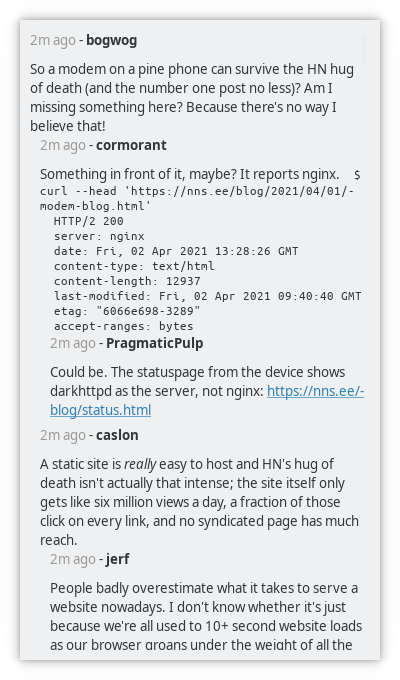
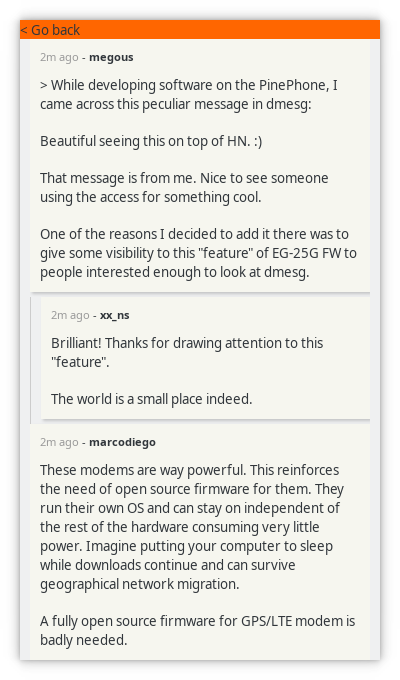
implement styling

diff --git a/src/hn/css/style.css b/src/hn/css/style.css
@@ -1,0 +1,31 @@
+.news-item {
+	padding: 5px;
+	margin-bottom: 2px;
+	background-color: #f6f6ef;
+	min-height: 60px
+}
+.comment-item {
+	padding: 10px;
+	/*
+	border-left: 4px solid #f00;
+	margin-left: -2px;
+	*/
+	margin-bottom: 5px;
+	background-color: #f6f6ef;
+	box-shadow: 2px 2px 2px 0px rgba(0, 0, 0, 0.18);
+}
+.comment-replies {
+	border-left: 1px solid #ccc;
+}
+
+.comment-item-dead {
+	color: #999;
+}
+
+.thread-comments {
+	padding-left: 10px;
+	padding-right: 10px;
+}
+.thread-back {
+	background-color: #ff6600;
+}

diff --git a/src/hn/hn.py b/src/hn/hn.py
@@ -1,5 +1,6 @@
 #!/usr/bin/env python3.7
 import queue
+from pathlib import Path
 
 import gi
 
@@ -12,12 +13,14 @@ from pango import html_to_pango
 from api import top_stories, get_id
 q = queue.Queue()
 
+STYLE_FILE = Path(__file__).parent / 'css' / 'style.css'
+
 class AppWindow(Gtk.ApplicationWindow):
     def __init__(self, *args, **kwargs):
         super().__init__(*args, **kwargs)
-        # self.connect("destroy", Gtk.main_quit)
+        self.connect("destroy", Gtk.main_quit)
+        self.setup_styles()
         self.set_default_size(360, 640)
-        self.set_border_width(10)
 
         self.stack = Gtk.Stack()
         self.stack.set_vexpand(True)
@@ -27,15 +30,22 @@ class AppWindow(Gtk.ApplicationWindow):
 
         self.ct = CommentThread()
         self.news_list = NewsList()
-        #label.connect('clicked', self.set_thread)
 
         self.stack.add(self.news_list)
         self.stack.add(self.ct)
-        #self.stack.set_visible_child(self.news_list)
 
         self.add(self.stack)
         self.show_all()
     
+    def setup_styles(self):
+        css_provider = Gtk.CssProvider()
+        context = Gtk.StyleContext()
+        screen = Gdk.Screen.get_default()
+
+        css_provider.load_from_path(str(STYLE_FILE))
+        context.add_provider_for_screen(screen, css_provider,
+                                        Gtk.STYLE_PROVIDER_PRIORITY_APPLICATION)
+
     def set_thread(self, thread_id):
         self.stack.set_visible_child(self.ct)
         self.ct.set_comments(thread_id)
@@ -53,7 +63,7 @@ class NewsList(Gtk.Grid):
         scrolled_window.set_vexpand(True)
 
         self.add(scrolled_window)
-        self.vbox = Gtk.VBox(spacing=6)
+        self.vbox = Gtk.VBox()
         self.vbox.set_homogeneous = False
         scrolled_window.add(self.vbox)
         self.show_all()
@@ -71,12 +81,15 @@ class CommentThread(Gtk.Grid):
         super().__init__(*args, **kwds)
 
         scrolled_window = Gtk.ScrolledWindow()
+        scrolled_window.get_style_context().add_class('thread-comments')
         scrolled_window.set_policy(Gtk.PolicyType.NEVER, Gtk.PolicyType.AUTOMATIC)
         scrolled_window.set_hexpand(True)
 
         label = Gtk.Label(label='< Go back')
         label.set_hexpand(True)
         label.set_xalign(0)
+        label.get_style_context().add_class('thread-back')
+
         back_event = Gtk.EventBox()
         back_event.add(label)
         back_event.connect('button-release-event', self.back_click)
@@ -84,7 +97,7 @@ class CommentThread(Gtk.Grid):
         self.attach(back_event, 0, 0, 1, 1)
         self.attach(scrolled_window, 0, 1, 1, 10)
 
-        self.vbox = Gtk.VBox(spacing=6)
+        self.vbox = Gtk.VBox()
         self.vbox.set_homogeneous = False
         scrolled_window.add(self.vbox)
         self.show_all()
@@ -108,6 +121,7 @@ class CommentThread(Gtk.Grid):
 class NewsItem(Gtk.Grid):
     def __init__(self, _item_id, *args, **kwds):
         super().__init__(*args, **kwds)
+        self.get_style_context().add_class('news-item')
 
         self.set_column_homogeneous(True)
         self.article_url = None
@@ -161,28 +175,34 @@ class NewsItem(Gtk.Grid):
             url = data['url'].split('/')[2]
         else:
             url = 'self'
-        self.title.set_markup(f'<span size="14000">{title}</span>')
+        self.title.set_markup(f'<span size="12000">{title}</span>')
         self.url.set_label(url)
         self.comments.set_label(str(comment_count))
 
 
-class Comment(Gtk.Grid):
+class Comment(Gtk.VBox):
     def __init__(self, _item_id, *args, **kwds):
         super().__init__(*args, **kwds)
+
+        comment_body = Gtk.Grid()
+
+        comment_body.get_style_context().add_class('comment-item')
         self._time = Gtk.Label()
         self._time.set_margin_bottom(10)
         self._time.set_xalign(0)
-        self.attach(self._time, 1, 1, 1, 1)
+        comment_body.attach(self._time, 1, 1, 1, 1)
 
         self.comment = Gtk.Label(label='...')
         self.comment.set_vexpand(True)
         self.comment.set_line_wrap(True)
         self.comment.set_selectable(True)
         self.comment.set_xalign(0)
-        self.attach(self.comment, 1, 2, 20, 1)
+        comment_body.attach(self.comment, 1, 2, 20, 1)
 
         self.replies = Gtk.VBox(spacing=6)
-        self.attach(self.replies, 1, 3, 20, 10)
+        self.replies.get_style_context().add_class('comment-replies')
+        self.add(comment_body)
+        self.add(self.replies)
         self.show_all()
 
         q.put((self._set_content, _item_id))
@@ -202,7 +222,10 @@ class Comment(Gtk.Grid):
             text = comment['text']
             by = comment['by']
         dead = comment.get('dead', False)
-        self._time.set_markup(f"<span foreground='#999'>2m ago</span> - <b>{by}</b>")
+        if dead:
+            self.get_style_context().add_class('comment-item-dead')
+
+        self._time.set_markup(f"<small><span foreground='#999'>2m ago</span> - <b>{by}</b></small>")
 
         text = html_to_pango(text)
         self.comment.set_markup(text)
